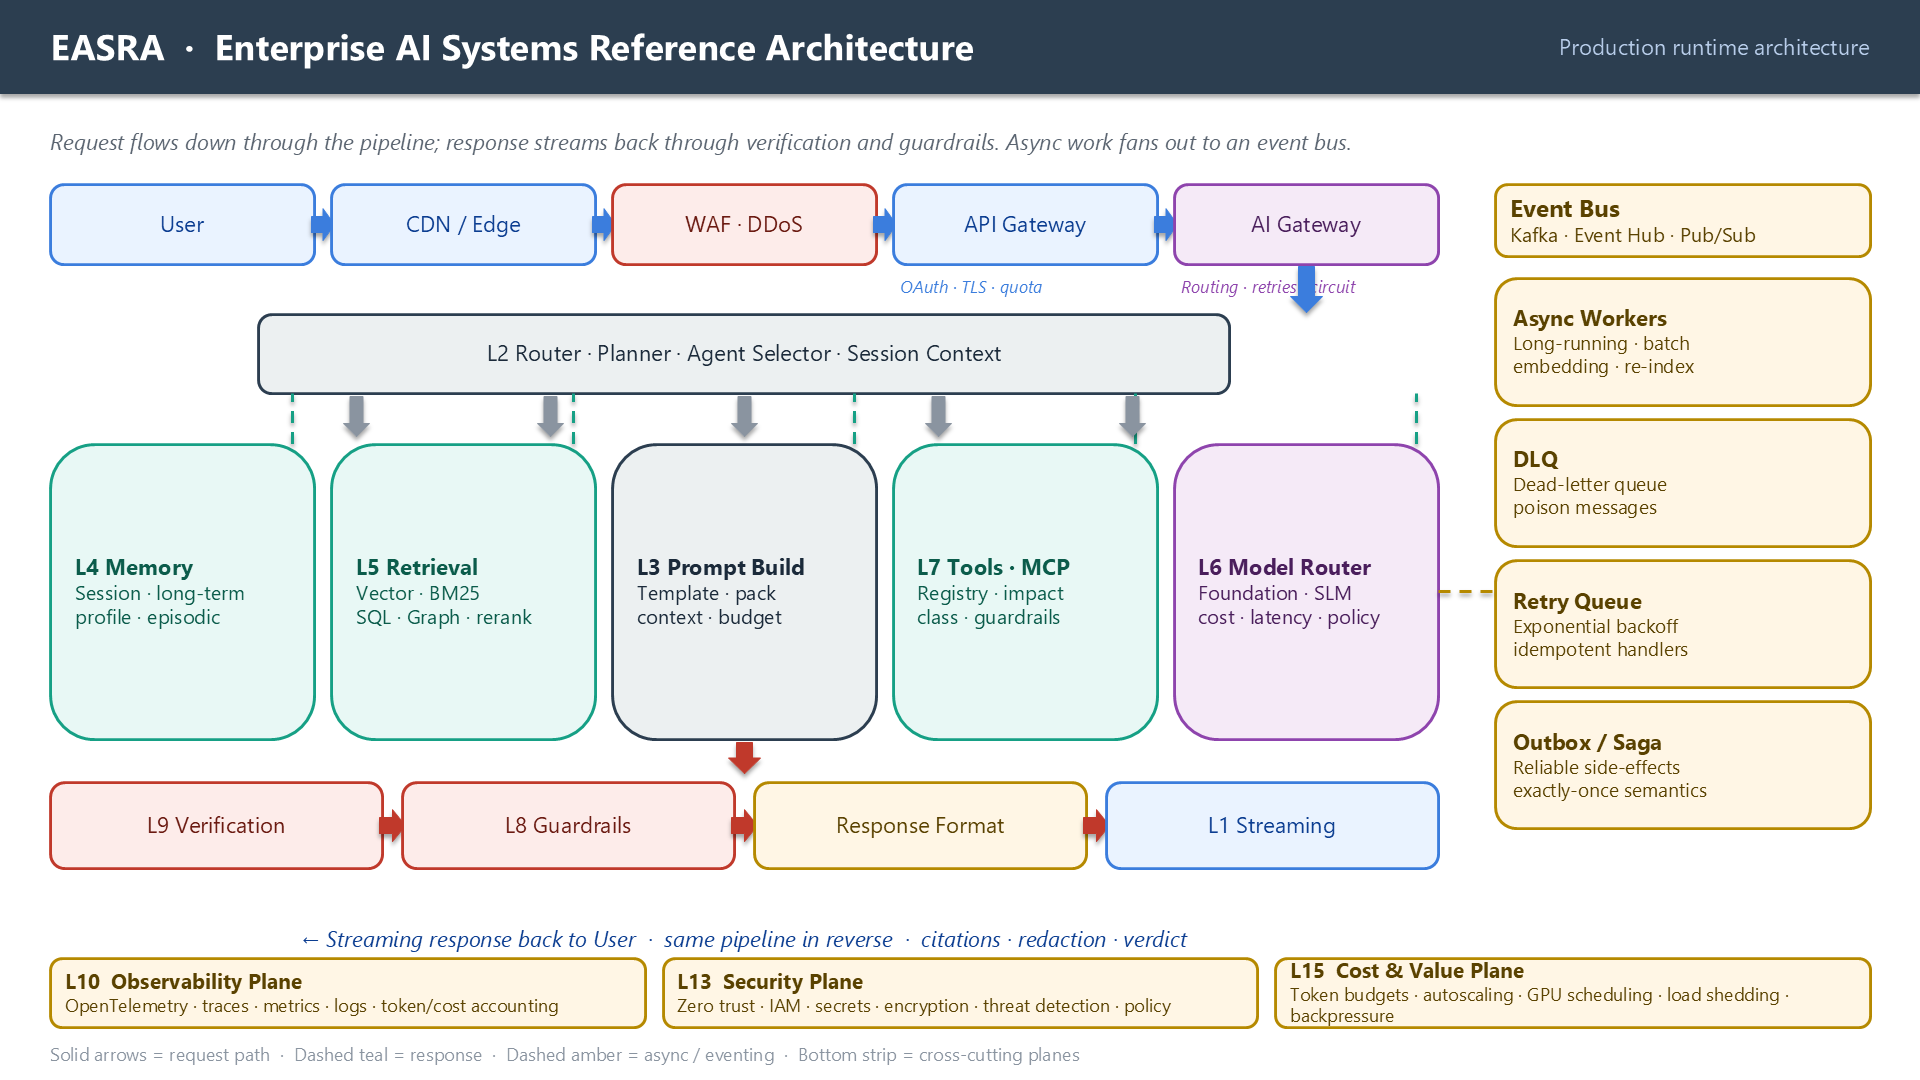
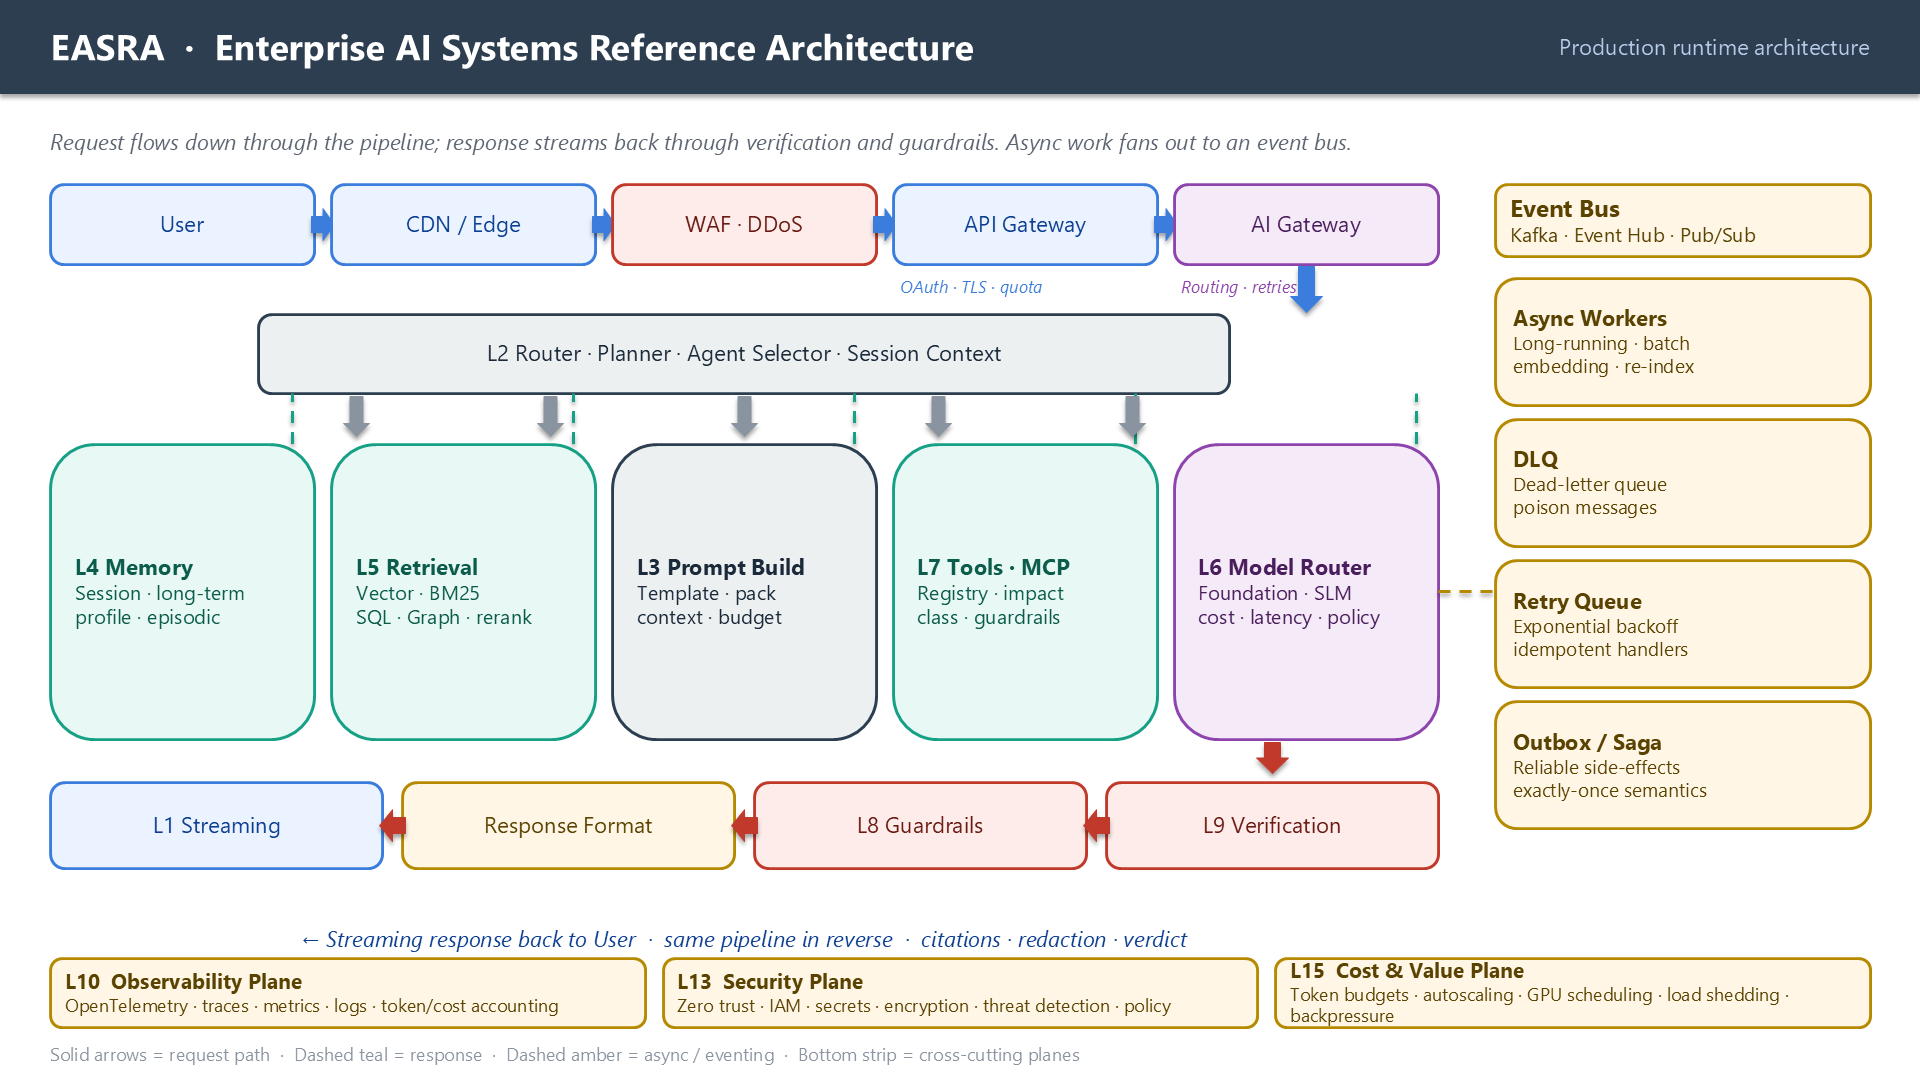
fix(conference): architecture slide response flow (U-shape: L6 Model Router -> L9 Verification -> ... -> L1 Streaming, right-to-left)

diff --git a/conference/build_linkedin_carousel.py b/conference/build_linkedin_carousel.py
@@ -1106,7 +1106,7 @@ def build_architecture_v2(prs: Presentation):
     )
     add_text(
         slide, ai_x + Inches(0.05), cap_y, bw1 - Inches(0.1), Inches(0.28),
-        "Routing · retries · circuit",
+        "Routing · retries",
         size=8.5, italic=True, color="#8E44AD", align=PP_ALIGN.LEFT,
     )
 
@@ -1154,14 +1154,15 @@ def build_architecture_v2(prs: Presentation):
                    x + bw3 - Inches(0.15), row2_top + row2_h,
                    color="#16A085", weight=1.25, dashed=True)
 
-    # -------- Row 4: Verification pipeline + Guardrails -------- #
+    # -------- Row 4: Response pipeline (right-to-left: response starts at
+    # L9 Verification rightmost, flows LEFT back toward the User) -------- #
     row4_top = row3_top + row3_h + Inches(0.3)
     row4_h = Inches(0.6)
     verify = [
-        ("L9 Verification",  "security"),
-        ("L8 Guardrails",    "security"),
-        ("Response Format",  "obs"),
         ("L1 Streaming",     "entry"),
+        ("Response Format",  "obs"),
+        ("L8 Guardrails",    "security"),
+        ("L9 Verification",  "security"),
     ]
     n4 = len(verify)
     gap4 = Inches(0.14)
@@ -1171,16 +1172,18 @@ def build_architecture_v2(prs: Presentation):
         fill, border, tcol = PALETTE[kind]
         add_box(slide, x, row4_top, bw4, row4_h, fill, border, label,
                 font_size=11, text_color=tcol, title_size=11, bold_title=True)
-        if i < n4 - 1:
-            ax = x + bw4
+        # LEFT-pointing arrow from this box back to the previous (response flow)
+        if i > 0:
+            ax = x - gap4 - Inches(0.02)
             ay = row4_top + row4_h / 2 - Inches(0.11)
-            _arrow_shape(slide, ax - Inches(0.02), ay,
+            _arrow_shape(slide, ax, ay,
                          gap4 + Inches(0.04), Inches(0.22),
-                         "right", "#C0392B")
+                         "left", "#C0392B")
 
-    # arrow from core row down to verification (single central down arrow)
-    cx = left_pad + main_w / 2
-    _arrow_shape(slide, cx - Inches(0.11),
+    # arrow from L6 Model Router (rightmost row 3) down to L9 Verification
+    # (rightmost row 4) — column-aligned so the response flow reads naturally.
+    verif_cx = left_pad + (bw4 + gap4) * (n4 - 1) + bw4 / 2
+    _arrow_shape(slide, verif_cx - Inches(0.11),
                  row3_top + row3_h + Inches(0.02),
                  Inches(0.22), Inches(0.22), "down", "#C0392B")
 